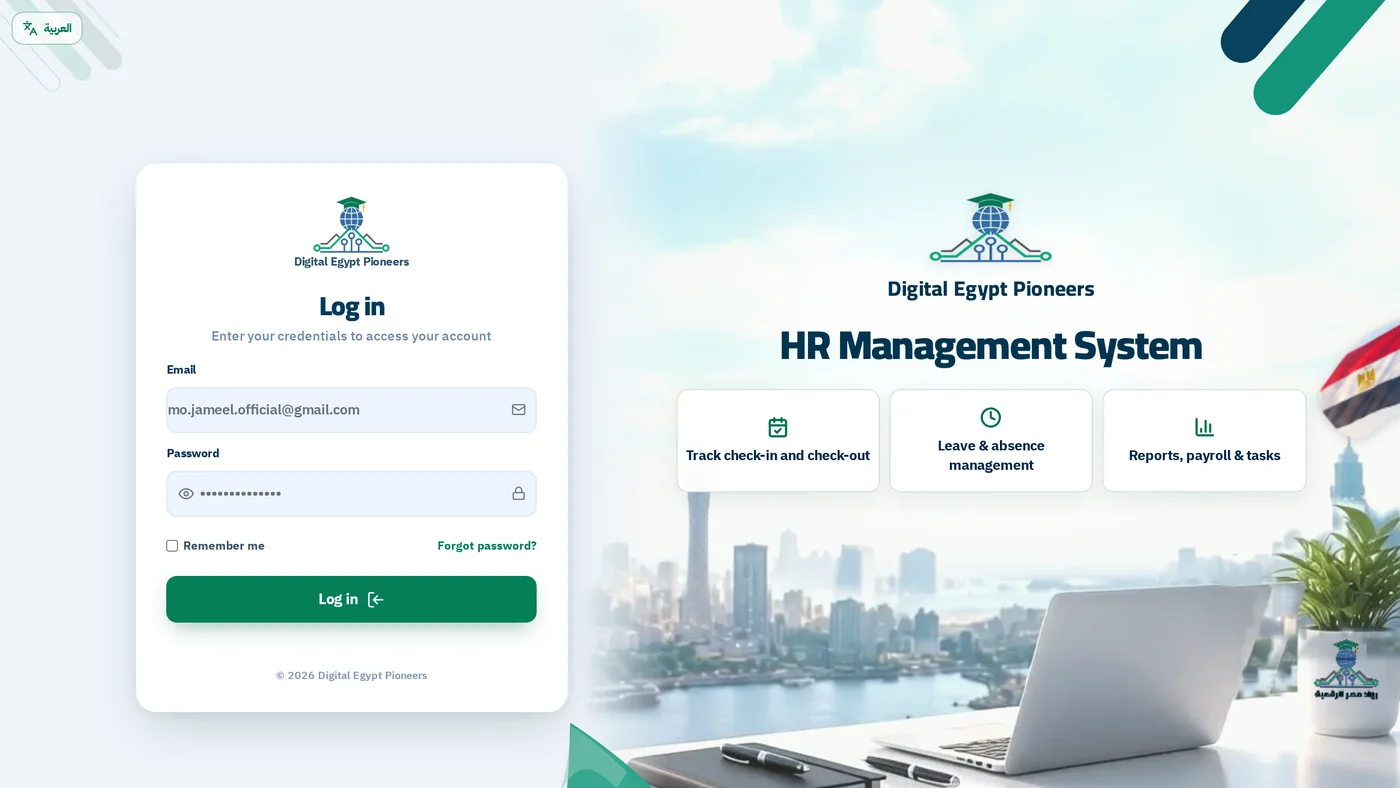
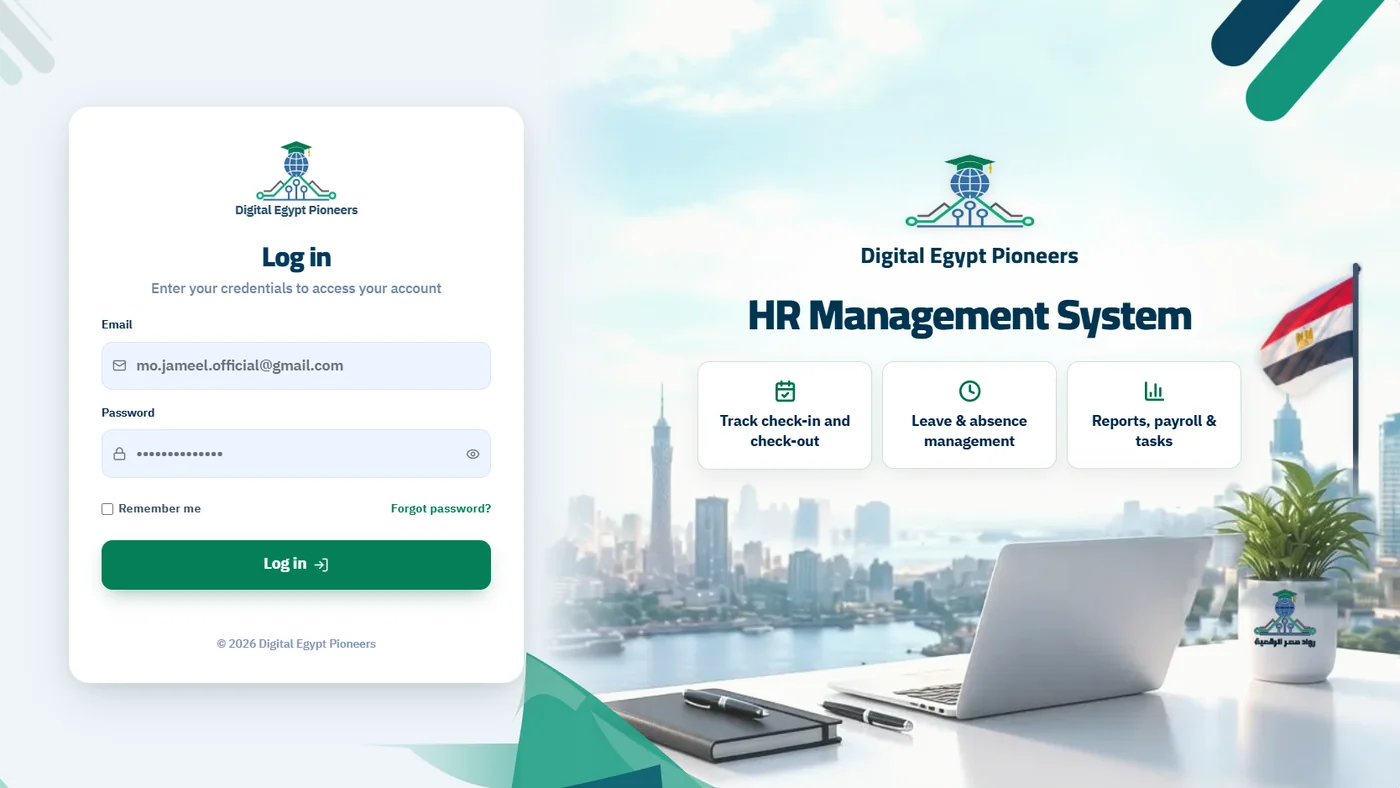
feat: add depi-staff modal poster and update site assets

diff --git a/index.html b/index.html
@@ -374,7 +374,7 @@
       </div>
       <div class="projects-grid">
         <div class="project-card featured fade-in">
-          <div class="project-img"><img src="assets/depi-staff-management.webp" alt="DEPI Staff Management System login page screenshot" loading="lazy" width="1400" height="788" /></div>
+          <div class="project-img" data-modal-src="assets/depi-staff-poster.webp" style="cursor:pointer" role="button" tabindex="0" aria-label="Open DEPI Staff Management System poster"><img src="assets/depi-staff-management.webp" alt="DEPI Staff Management System login page showing the sign-in form and HR Management System feature panel with an Egyptian flag" loading="lazy" width="1400" height="788" /></div>
           <div class="project-icon"><i class="bx bx-buildings" aria-hidden="true"></i></div>
           <div class="project-head">
             <h3 class="project-title" data-key="projDepiTitle">DEPI-Staff-Management System</h3>

diff --git a/sw.js b/sw.js
@@ -8,7 +8,7 @@
    Bump CACHE_NAME when shipping new asset versions.
    ============================================================ */
 
-const CACHE_NAME = 'mj-portfolio-v5';
+const CACHE_NAME = 'mj-portfolio-v6';
 
 const CORE_ASSETS = [
   './',
